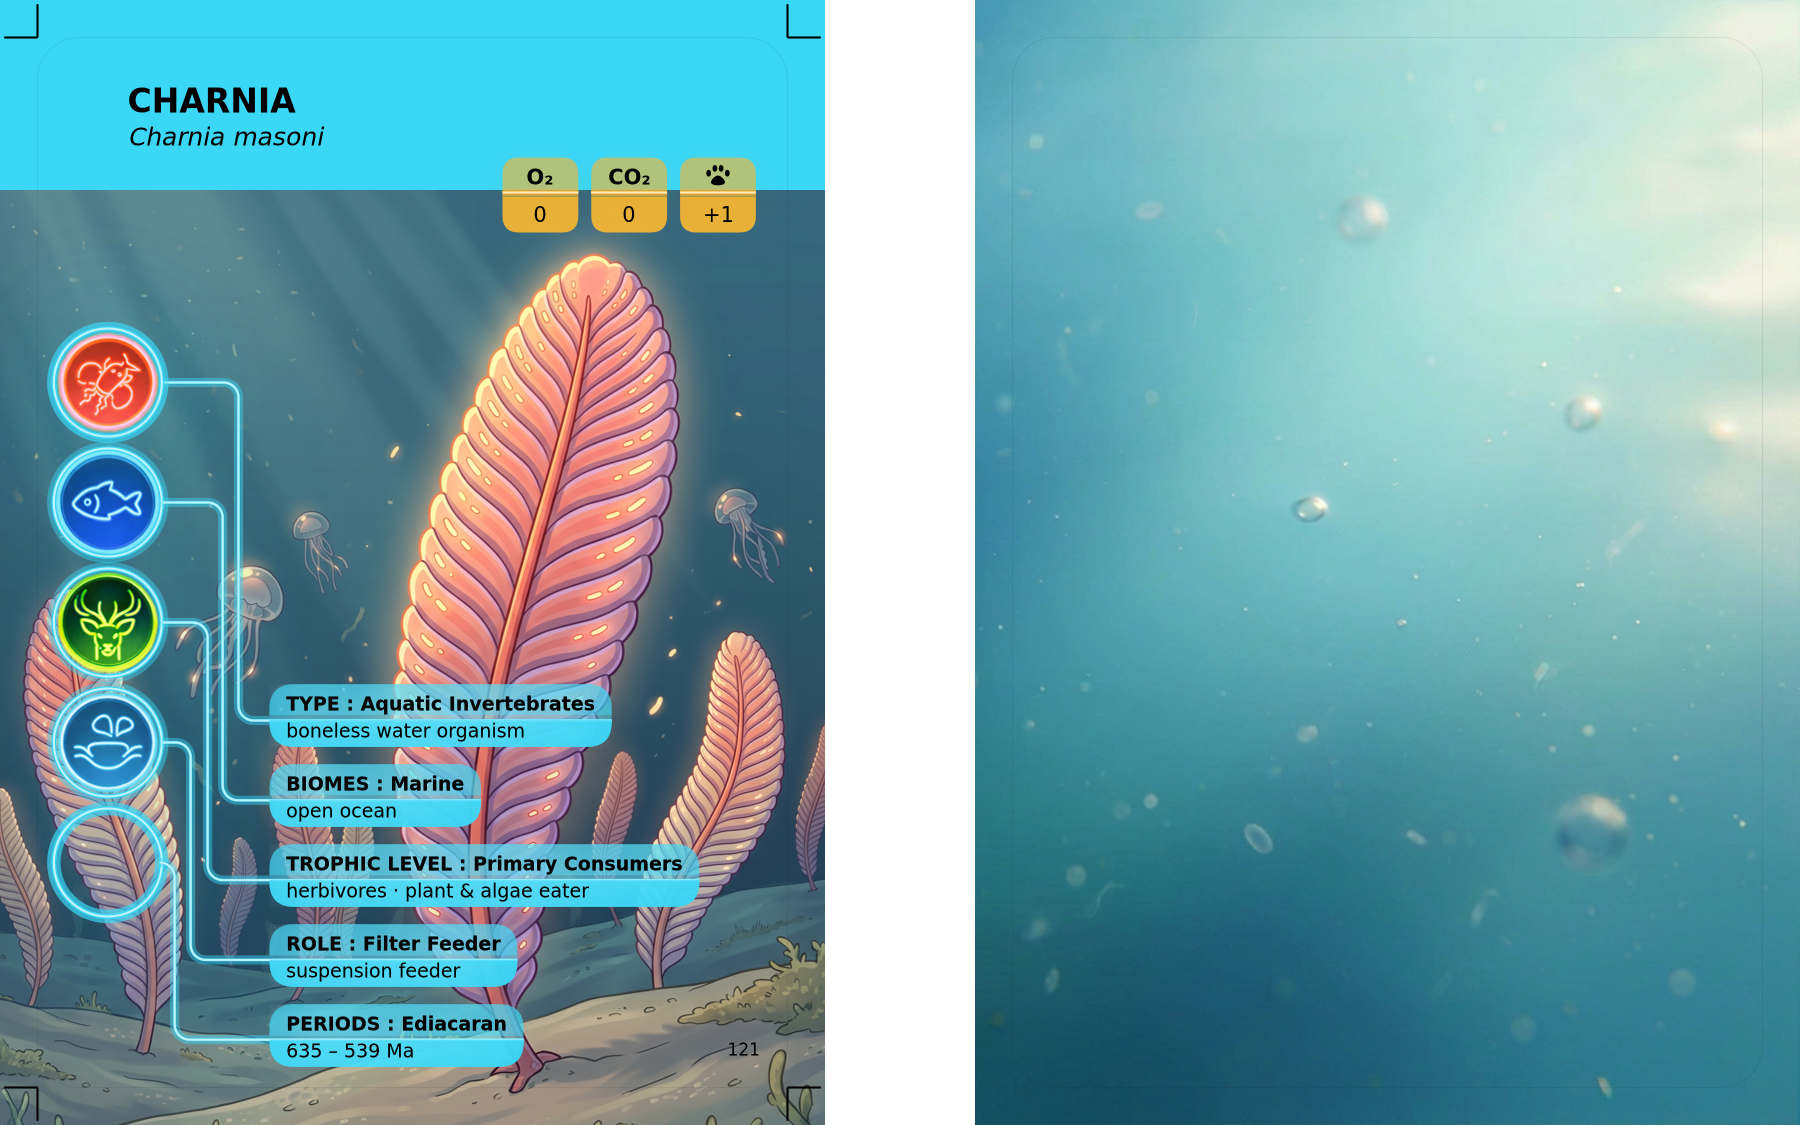
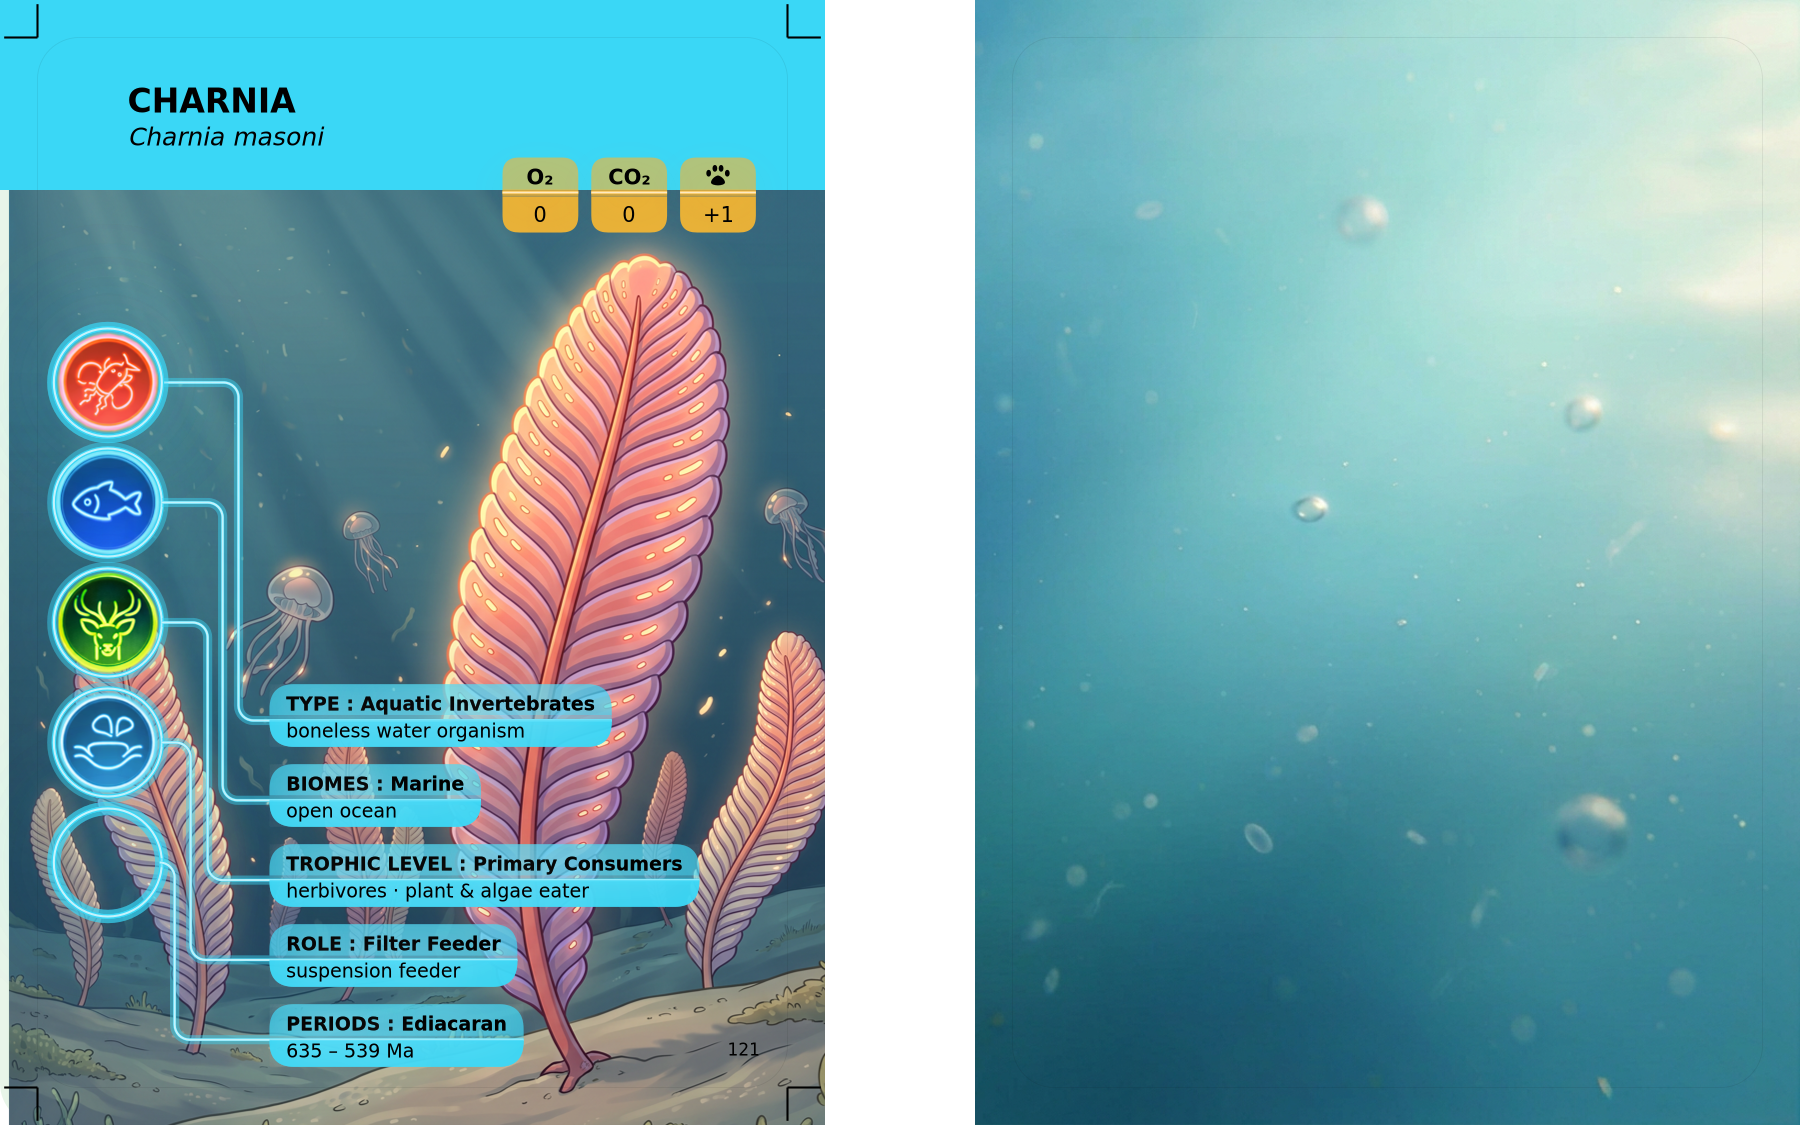
fix: update main photo placement for Card 121 and adjust manifest file

Changed region(s): [[0.0, 0.1867, 0.4667, 1.0], [0.1556, 0.8711, 0.2178, 0.9022]]

diff --git a/game/lib/cards/layers/main-photo-placement.js b/game/lib/cards/layers/main-photo-placement.js
@@ -57,6 +57,7 @@ function getMainPhotoPlacement(card, x, y, scale) {
   const isCard87 = label === 'Card 87' || sci === 'panthera onca';
   const isCard88 = label === 'Card 88' || sci === 'castor canadensis';
   const isCard89 = label === 'Card 89' || sci === 'acropora cervicornis';
+  const isCard121 = label === 'Card 121';
 
   // --- Initial X position ---
   let mainPhotoX = isCard4
@@ -97,6 +98,7 @@ function getMainPhotoPlacement(card, x, y, scale) {
   if (isCard68) { mainPhotoX += 20; }
   if (isCard89) { mainPhotoY -= 80; }
   if (isCard39) { mainPhotoX -= 60; mainPhotoY += 60; }
+  if (isCard121) { mainPhotoX += 50; }
 
   // --- Build options object ---
   const mainPhotoOptions = {
